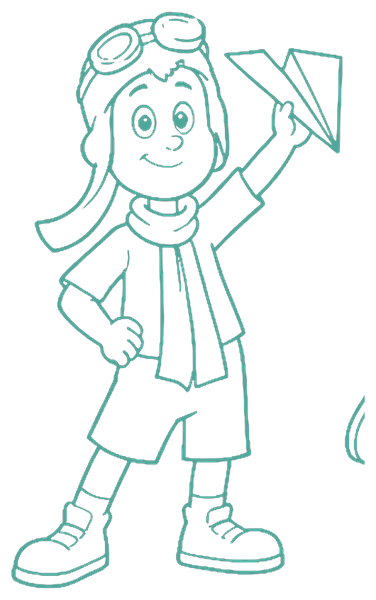
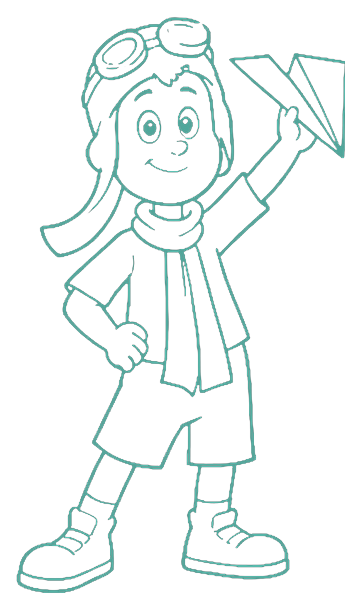
Funscool: уменьшил героев на карточках, чистка Летика, убрал Тюбика и Альфреда
- Герои групп ограничены по ширине и высоте — больше не наезжают на текст.
- Летик: убрал затесавшуюся чужую ногу.
- Убрал Тюбика из «Среды» и Альфреда над «Как проходит день».

Claude-Session: https://claude.ai/code/session_01Ti4GS4ybqdHrzcDH13FjM6

Changed region(s): [[0.0305, 0.0, 0.9751, 0.99], [0.9141, 0.66, 0.9751, 0.78]]

diff --git a/funscool/assets/css/style.css b/funscool/assets/css/style.css
@@ -293,13 +293,13 @@ h1, h2, h3, h4 {
 
 /* brand mascot on each group card — stands on the clean white body (one per card) */
 .prog-body { position: relative; z-index: 1; }
-.prog-char {
-  position: absolute; z-index: 0; pointer-events: none; width: auto;
-  right: 12px; bottom: 12px; height: 156px;
+.prog-char {   /* capped by BOTH dimensions so wide poses never spill onto the text */
+  position: absolute; z-index: 0; pointer-events: none;
+  right: 8px; bottom: 12px; width: auto; height: auto;
+  max-height: 140px; max-width: 104px;
 }
 @media (max-width: 900px) {                 /* vertical card: mascot in a reserved bottom-right corner */
-  .programs.slider-track > .prog .prog-body { padding-right: 118px; }
-  .programs.slider-track > .prog .prog-char { height: 150px; right: 8px; }
+  .programs.slider-track > .prog .prog-body { padding-right: 120px; }
 }
 
 /* brand mascots tucked into other sections (static, desktop only) */
@@ -835,9 +835,9 @@ body.intro-lock { overflow: hidden; }
     width: 46%; flex-shrink: 0; aspect-ratio: auto; align-self: stretch;
   }
   .programs.slider-track > .prog .prog-body {
-    padding: 44px 210px 40px 48px; justify-content: center;   /* reserve right column for the mascot */
+    padding: 44px 208px 40px 48px; justify-content: center;   /* reserve right column for the mascot */
   }
-  .programs.slider-track > .prog .prog-char { right: 26px; bottom: 0; height: 84%; }
+  .programs.slider-track > .prog .prog-char { right: 30px; bottom: 6px; max-height: 226px; max-width: 164px; }
   .programs.slider-track > .prog .prog-body h3 { font-size: 30px; }
   .programs.slider-track > .prog .prog-age { font-size: 16px; margin: 6px 0 14px; }
   .programs.slider-track > .prog .prog-desc { font-size: 17px; max-width: 46ch; }

diff --git a/funscool/index.html b/funscool/index.html
@@ -180,7 +180,6 @@
 
 <!-- ============ SREDA ============ -->
 <section class="section" id="sreda">
-  <img class="section-char" src="assets/img/characters/tubik.png" alt="" aria-hidden="true" loading="lazy" style="left:1.5%;bottom:0;height:clamp(160px,16vw,215px)">
   <img class="doodle doodle-art float-anim" src="assets/img/doodles/flower.png" alt="" aria-hidden="true" style="top:6%;right:3%;width:60px">
   <img class="doodle doodle-art drift-anim" src="assets/img/doodles/leaf.png" alt="" aria-hidden="true" style="bottom:12%;left:2%;width:56px">
   <div class="container">
@@ -326,7 +325,6 @@
 
 <!-- ============ HOUSE WITH HISTORY ============ -->
 <section class="section" id="house" style="padding-top:0">
-  <img class="section-char" src="assets/img/characters/alfred.png" alt="" aria-hidden="true" loading="lazy" style="left:max(24px,calc(50% - 640px + 24px));bottom:14px;height:clamp(160px,14vw,205px)">
   <img class="doodle doodle-art float-anim" src="assets/img/doodles/star2.png" alt="" aria-hidden="true" style="top:6%;left:3%;width:52px">
   <div class="container">
     <div class="split rev reveal">
